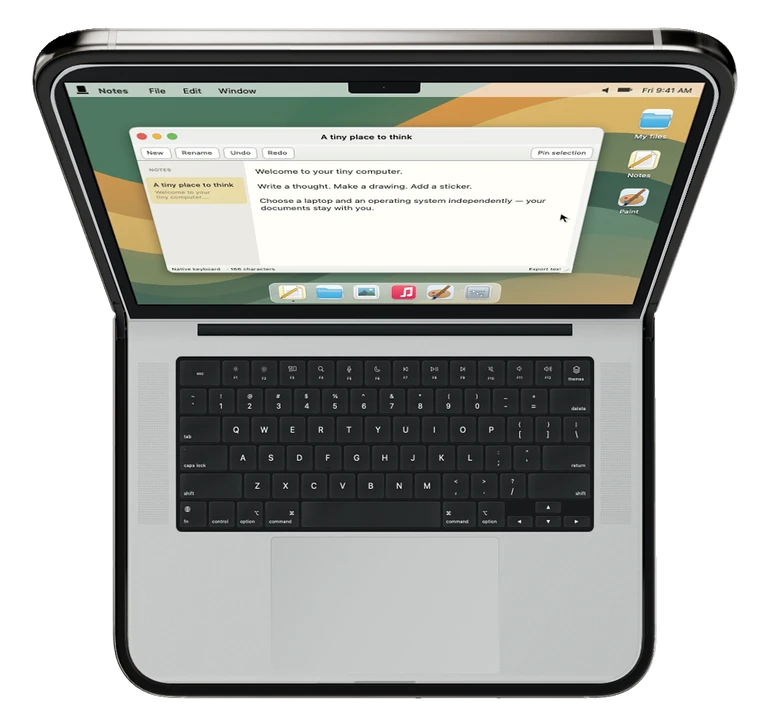
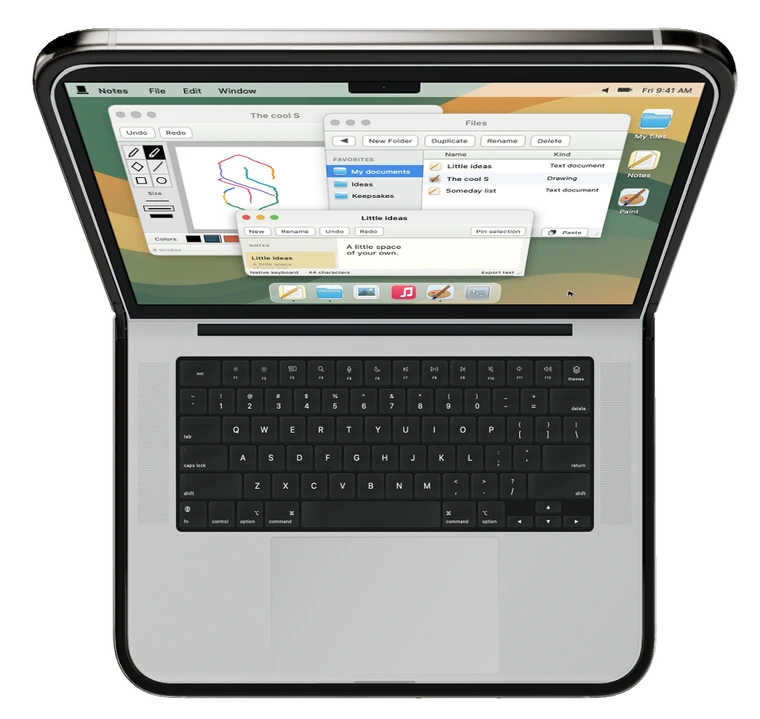
Refresh screenshots with Finder, Paint and Notes
Use the approved overlapping window layout across all seven OS desktops, eleven collection fronts, ten hero renderings, and the social preview. Preserve the existing hardware, poses, page copy, and interactions. Include the smaller multicoloured S, visible desktop icons, and Notes positioned above the Dock. Refresh image versions for browser caches. Validated all 29 image files, preserved dimensions, and checked the local website.

Changed region(s): [[0.1211, 0.1224, 0.8474, 0.3978]]

diff --git a/index.html b/index.html
@@ -2,43 +2,43 @@
 <html lang="en"><head><meta charset="utf-8"><meta name="viewport" content="width=device-width,initial-scale=1">
 <meta name="description" content="Turn your iPhone Duo into your own little laptop. Explore the collection, flip over their lids, and make room for notes, doodles, music and a little personality.">
 <meta name="theme-color" content="#dfff3f"><meta http-equiv="Content-Security-Policy" content="default-src 'none'; style-src 'self' 'unsafe-inline'; script-src 'self'; img-src 'self'; media-src 'self'; base-uri 'none'; form-action 'none'">
-<meta property="og:type" content="website"><meta property="og:title" content="lil laptop — old soul. new screen."><meta property="og:description" content="Laptop looks. Your own little world on iPhone Duo."><meta property="og:url" content="https://sentry93.github.io/lil-laptop/"><meta property="og:image" content="https://sentry93.github.io/lil-laptop/social.jpg"><meta name="twitter:card" content="summary_large_image">
-<link rel="canonical" href="https://sentry93.github.io/lil-laptop/"><link rel="icon" href="icon-32.png" sizes="32x32"><link rel="apple-touch-icon" href="icon-180.png"><link rel="stylesheet" href="style.css?v=20261019-dot-mobile"><link rel="preload" href="hero-snow-open.webp?v=20261019-brighter" as="image" fetchpriority="high"><script src="site.js?v=20261019-dot-mobile" defer></script><title>lil laptop — oh hello. again.</title><noscript><style>.hero-art[data-loading=true]{visibility:visible}</style></noscript></head>
+<meta property="og:type" content="website"><meta property="og:title" content="lil laptop — old soul. new screen."><meta property="og:description" content="Laptop looks. Your own little world on iPhone Duo."><meta property="og:url" content="https://sentry93.github.io/lil-laptop/"><meta property="og:image" content="https://sentry93.github.io/lil-laptop/social.jpg?v=20261019-three-windows"><meta name="twitter:card" content="summary_large_image">
+<link rel="canonical" href="https://sentry93.github.io/lil-laptop/"><link rel="icon" href="icon-32.png" sizes="32x32"><link rel="apple-touch-icon" href="icon-180.png"><link rel="stylesheet" href="style.css?v=20261019-dot-mobile"><link rel="preload" href="hero-snow-open.webp?v=20261019-three-windows" as="image" fetchpriority="high"><script src="site.js?v=20261019-three-windows" defer></script><title>lil laptop — oh hello. again.</title><noscript><style>.hero-art[data-loading=true]{visibility:visible}</style></noscript></head>
 <body><a class="skip" href="#main">Skip to content</a>
 <header class="site-header"><div class="wrap nav-inner"><a class="brand" href="./" aria-label="lil laptop home"><span class="nav-icon" aria-hidden="true"><span class="app-icon-shell"><img src="lil-laptop-app-icon-1024.png" width="28" height="28" alt="" draggable="false"></span></span><span class="wordmark">lil laptop</span></a><nav aria-label="Main"><a href="#collection">the laptops</a><a href="#customize">make it yours</a><div class="nav-download"><a class="app-store-badge" href="https://apps.apple.com/us/app/lil-laptop/id6824160964" aria-label="Download lil laptop on the App Store"><svg aria-hidden="true" focusable="false" xmlns="http://www.w3.org/2000/svg" width="119.66407" height="40" viewBox="0 0 119.66407 40"><g><g><g><path d="M110.13477,0H9.53468c-.3667,0-.729,0-1.09473.002-.30615.002-.60986.00781-.91895.0127A13.21476,13.21476,0,0,0,5.5171.19141a6.66509,6.66509,0,0,0-1.90088.627A6.43779,6.43779,0,0,0,1.99757,1.99707,6.25844,6.25844,0,0,0,.81935,3.61816a6.60119,6.60119,0,0,0-.625,1.90332,12.993,12.993,0,0,0-.1792,2.002C.00587,7.83008.00489,8.1377,0,8.44434V31.5586c.00489.3105.00587.6113.01515.9219a12.99232,12.99232,0,0,0,.1792,2.0019,6.58756,6.58756,0,0,0,.625,1.9043A6.20778,6.20778,0,0,0,1.99757,38.001a6.27445,6.27445,0,0,0,1.61865,1.1787,6.70082,6.70082,0,0,0,1.90088.6308,13.45514,13.45514,0,0,0,2.0039.1768c.30909.0068.6128.0107.91895.0107C8.80567,40,9.168,40,9.53468,40H110.13477c.3594,0,.7246,0,1.084-.002.3047,0,.6172-.0039.9219-.0107a13.279,13.279,0,0,0,2-.1768,6.80432,6.80432,0,0,0,1.9082-.6308,6.27742,6.27742,0,0,0,1.6172-1.1787,6.39482,6.39482,0,0,0,1.1816-1.6143,6.60413,6.60413,0,0,0,.6191-1.9043,13.50643,13.50643,0,0,0,.1856-2.0019c.0039-.3106.0039-.6114.0039-.9219.0078-.3633.0078-.7246.0078-1.0938V9.53613c0-.36621,0-.72949-.0078-1.09179,0-.30664,0-.61426-.0039-.9209a13.5071,13.5071,0,0,0-.1856-2.002,6.6177,6.6177,0,0,0-.6191-1.90332,6.46619,6.46619,0,0,0-2.7988-2.7998,6.76754,6.76754,0,0,0-1.9082-.627,13.04394,13.04394,0,0,0-2-.17676c-.3047-.00488-.6172-.01074-.9219-.01269-.3594-.002-.7246-.002-1.084-.002Z" style="fill: #a6a6a6"/><path d="M8.44483,39.125c-.30468,0-.602-.0039-.90429-.0107a12.68714,12.68714,0,0,1-1.86914-.1631,5.88381,5.88381,0,0,1-1.65674-.5479,5.40573,5.40573,0,0,1-1.397-1.0166,5.32082,5.32082,0,0,1-1.02051-1.3965,5.72186,5.72186,0,0,1-.543-1.6572,12.41351,12.41351,0,0,1-.1665-1.875c-.00634-.2109-.01464-.9131-.01464-.9131V8.44434S.88185,7.75293.8877,7.5498a12.37039,12.37039,0,0,1,.16553-1.87207,5.7555,5.7555,0,0,1,.54346-1.6621A5.37349,5.37349,0,0,1,2.61183,2.61768,5.56543,5.56543,0,0,1,4.01417,1.59521a5.82309,5.82309,0,0,1,1.65332-.54394A12.58589,12.58589,0,0,1,7.543.88721L8.44532.875H111.21387l.9131.0127a12.38493,12.38493,0,0,1,1.8584.16259,5.93833,5.93833,0,0,1,1.6709.54785,5.59374,5.59374,0,0,1,2.415,2.41993,5.76267,5.76267,0,0,1,.5352,1.64892,12.995,12.995,0,0,1,.1738,1.88721c.0029.2832.0029.5874.0029.89014.0079.375.0079.73193.0079,1.09179V30.4648c0,.3633,0,.7178-.0079,1.0752,0,.3252,0,.6231-.0039.9297a12.73126,12.73126,0,0,1-.1709,1.8535,5.739,5.739,0,0,1-.54,1.67,5.48029,5.48029,0,0,1-1.0156,1.3857,5.4129,5.4129,0,0,1-1.3994,1.0225,5.86168,5.86168,0,0,1-1.668.5498,12.54218,12.54218,0,0,1-1.8692.1631c-.2929.0068-.5996.0107-.8974.0107l-1.084.002Z"/></g><g data-name="&lt;Group&gt;"><g data-name="&lt;Group&gt;"><g data-name="&lt;Group&gt;"><path data-name="&lt;Path&gt;" d="M24.76888,20.30068a4.94881,4.94881,0,0,1,2.35656-4.15206,5.06566,5.06566,0,0,0-3.99116-2.15768c-1.67924-.17626-3.30719,1.00483-4.1629,1.00483-.87227,0-2.18977-.98733-3.6085-.95814a5.31529,5.31529,0,0,0-4.47292,2.72787c-1.934,3.34842-.49141,8.26947,1.3612,10.97608.9269,1.32535,2.01018,2.8058,3.42763,2.7533,1.38706-.05753,1.9051-.88448,3.5794-.88448,1.65876,0,2.14479.88448,3.591.8511,1.48838-.02416,2.42613-1.33124,3.32051-2.66914a10.962,10.962,0,0,0,1.51842-3.09251A4.78205,4.78205,0,0,1,24.76888,20.30068Z" style="fill: #fff"/><path data-name="&lt;Path&gt;" d="M22.03725,12.21089a4.87248,4.87248,0,0,0,1.11452-3.49062,4.95746,4.95746,0,0,0-3.20758,1.65961,4.63634,4.63634,0,0,0-1.14371,3.36139A4.09905,4.09905,0,0,0,22.03725,12.21089Z" style="fill: #fff"/></g></g><g><path d="M42.30227,27.13965h-4.7334l-1.13672,3.35645H34.42727l4.4834-12.418h2.083l4.4834,12.418H43.438ZM38.0591,25.59082h3.752l-1.84961-5.44727h-.05176Z" style="fill: #fff"/><path d="M55.15969,25.96973c0,2.81348-1.50586,4.62109-3.77832,4.62109a3.0693,3.0693,0,0,1-2.84863-1.584h-.043v4.48438h-1.8584V21.44238H48.4302v1.50586h.03418a3.21162,3.21162,0,0,1,2.88281-1.60059C53.645,21.34766,55.15969,23.16406,55.15969,25.96973Zm-1.91016,0c0-1.833-.94727-3.03809-2.39258-3.03809-1.41992,0-2.375,1.23047-2.375,3.03809,0,1.82422.95508,3.0459,2.375,3.0459C52.30227,29.01563,53.24953,27.81934,53.24953,25.96973Z" style="fill: #fff"/><path d="M65.12453,25.96973c0,2.81348-1.50586,4.62109-3.77832,4.62109a3.0693,3.0693,0,0,1-2.84863-1.584h-.043v4.48438h-1.8584V21.44238H58.395v1.50586h.03418A3.21162,3.21162,0,0,1,61.312,21.34766C63.60988,21.34766,65.12453,23.16406,65.12453,25.96973Zm-1.91016,0c0-1.833-.94727-3.03809-2.39258-3.03809-1.41992,0-2.375,1.23047-2.375,3.03809,0,1.82422.95508,3.0459,2.375,3.0459C62.26711,29.01563,63.21438,27.81934,63.21438,25.96973Z" style="fill: #fff"/><path d="M71.71047,27.03613c.1377,1.23145,1.334,2.04,2.96875,2.04,1.56641,0,2.69336-.80859,2.69336-1.91895,0-.96387-.67969-1.541-2.28906-1.93652l-1.60937-.3877c-2.28027-.55078-3.33887-1.61719-3.33887-3.34766,0-2.14258,1.86719-3.61426,4.51855-3.61426,2.624,0,4.42285,1.47168,4.4834,3.61426h-1.876c-.1123-1.23926-1.13672-1.9873-2.63379-1.9873s-2.52148.75684-2.52148,1.8584c0,.87793.6543,1.39453,2.25488,1.79l1.36816.33594c2.54785.60254,3.60645,1.626,3.60645,3.44238,0,2.32324-1.85059,3.77832-4.79395,3.77832-2.75391,0-4.61328-1.4209-4.7334-3.667Z" style="fill: #fff"/><path d="M83.34621,19.2998v2.14258h1.72168v1.47168H83.34621v4.99121c0,.77539.34473,1.13672,1.10156,1.13672a5.80752,5.80752,0,0,0,.61133-.043v1.46289a5.10351,5.10351,0,0,1-1.03223.08594c-1.833,0-2.54785-.68848-2.54785-2.44434V22.91406H80.16262V21.44238H81.479V19.2998Z" style="fill: #fff"/><path d="M86.065,25.96973c0-2.84863,1.67773-4.63867,4.29395-4.63867,2.625,0,4.29492,1.79,4.29492,4.63867,0,2.85645-1.66113,4.63867-4.29492,4.63867C87.72609,30.6084,86.065,28.82617,86.065,25.96973Zm6.69531,0c0-1.9541-.89551-3.10742-2.40137-3.10742s-2.40039,1.16211-2.40039,3.10742c0,1.96191.89453,3.10645,2.40039,3.10645S92.76027,27.93164,92.76027,25.96973Z" style="fill: #fff"/><path d="M96.18606,21.44238h1.77246v1.541h.043a2.1594,2.1594,0,0,1,2.17773-1.63574,2.86616,2.86616,0,0,1,.63672.06934v1.73828a2.59794,2.59794,0,0,0-.835-.1123,1.87264,1.87264,0,0,0-1.93652,2.083v5.37012h-1.8584Z" style="fill: #fff"/><path d="M109.3843,27.83691c-.25,1.64355-1.85059,2.77148-3.89844,2.77148-2.63379,0-4.26855-1.76465-4.26855-4.5957,0-2.83984,1.64355-4.68164,4.19043-4.68164,2.50488,0,4.08008,1.7207,4.08008,4.46582v.63672h-6.39453v.1123a2.358,2.358,0,0,0,2.43555,2.56445,2.04834,2.04834,0,0,0,2.09082-1.27344Zm-6.28223-2.70215h4.52637a2.1773,2.1773,0,0,0-2.2207-2.29785A2.292,2.292,0,0,0,103.10207,25.13477Z" style="fill: #fff"/></g></g></g><g data-name="&lt;Group&gt;"><g><path d="M37.82619,8.731a2.63964,2.63964,0,0,1,2.80762,2.96484c0,1.90625-1.03027,3.002-2.80762,3.002H35.67092V8.731Zm-1.22852,5.123h1.125a1.87588,1.87588,0,0,0,1.96777-2.146,1.881,1.881,0,0,0-1.96777-2.13379h-1.125Z" style="fill: #fff"/><path d="M41.68068,12.44434a2.13323,2.13323,0,1,1,4.24707,0,2.13358,2.13358,0,1,1-4.24707,0Zm3.333,0c0-.97607-.43848-1.54687-1.208-1.54687-.77246,0-1.207.5708-1.207,1.54688,0,.98389.43457,1.55029,1.207,1.55029C44.57522,13.99463,45.01369,13.42432,45.01369,12.44434Z" style="fill: #fff"/><path d="M51.57326,14.69775h-.92187l-.93066-3.31641h-.07031l-.92676,3.31641h-.91309l-1.24121-4.50293h.90137l.80664,3.436h.06641l.92578-3.436h.85254l.92578,3.436h.07031l.80273-3.436h.88867Z" style="fill: #fff"/><path d="M53.85354,10.19482H54.709v.71533h.06641a1.348,1.348,0,0,1,1.34375-.80225,1.46456,1.46456,0,0,1,1.55859,1.6748v2.915h-.88867V12.00586c0-.72363-.31445-1.0835-.97168-1.0835a1.03294,1.03294,0,0,0-1.0752,1.14111v2.63428h-.88867Z" style="fill: #fff"/><path d="M59.09377,8.437h.88867v6.26074h-.88867Z" style="fill: #fff"/><path d="M61.21779,12.44434a2.13346,2.13346,0,1,1,4.24756,0,2.1338,2.1338,0,1,1-4.24756,0Zm3.333,0c0-.97607-.43848-1.54687-1.208-1.54687-.77246,0-1.207.5708-1.207,1.54688,0,.98389.43457,1.55029,1.207,1.55029C64.11232,13.99463,64.5508,13.42432,64.5508,12.44434Z" style="fill: #fff"/><path d="M66.4009,13.42432c0-.81055.60352-1.27783,1.6748-1.34424l1.21973-.07031v-.38867c0-.47559-.31445-.74414-.92187-.74414-.49609,0-.83984.18213-.93848.50049h-.86035c.09082-.77344.81836-1.26953,1.83984-1.26953,1.12891,0,1.76563.562,1.76563,1.51318v3.07666h-.85547v-.63281h-.07031a1.515,1.515,0,0,1-1.35254.707A1.36026,1.36026,0,0,1,66.4009,13.42432Zm2.89453-.38477v-.37646l-1.09961.07031c-.62012.0415-.90137.25244-.90137.64941,0,.40527.35156.64111.835.64111A1.0615,1.0615,0,0,0,69.29543,13.03955Z" style="fill: #fff"/><path d="M71.34816,12.44434c0-1.42285.73145-2.32422,1.86914-2.32422a1.484,1.484,0,0,1,1.38086.79h.06641V8.437h.88867v6.26074h-.85156v-.71143h-.07031a1.56284,1.56284,0,0,1-1.41406.78564C72.0718,14.772,71.34816,13.87061,71.34816,12.44434Zm.918,0c0,.95508.4502,1.52979,1.20313,1.52979.749,0,1.21191-.583,1.21191-1.52588,0-.93848-.46777-1.52979-1.21191-1.52979C72.72121,10.91846,72.26613,11.49707,72.26613,12.44434Z" style="fill: #fff"/><path d="M79.23,12.44434a2.13323,2.13323,0,1,1,4.24707,0,2.13358,2.13358,0,1,1-4.24707,0Zm3.333,0c0-.97607-.43848-1.54687-1.208-1.54687-.77246,0-1.207.5708-1.207,1.54688,0,.98389.43457,1.55029,1.207,1.55029C82.12453,13.99463,82.563,13.42432,82.563,12.44434Z" style="fill: #fff"/><path d="M84.66945,10.19482h.85547v.71533h.06641a1.348,1.348,0,0,1,1.34375-.80225,1.46456,1.46456,0,0,1,1.55859,1.6748v2.915H87.605V12.00586c0-.72363-.31445-1.0835-.97168-1.0835a1.03294,1.03294,0,0,0-1.0752,1.14111v2.63428h-.88867Z" style="fill: #fff"/><path d="M93.51516,9.07373v1.1416h.97559v.74854h-.97559V13.2793c0,.47168.19434.67822.63672.67822a2.96657,2.96657,0,0,0,.33887-.02051v.74023a2.9155,2.9155,0,0,1-.4834.04541c-.98828,0-1.38184-.34766-1.38184-1.21582v-2.543h-.71484v-.74854h.71484V9.07373Z" style="fill: #fff"/><path d="M95.70461,8.437h.88086v2.48145h.07031a1.3856,1.3856,0,0,1,1.373-.80664,1.48339,1.48339,0,0,1,1.55078,1.67871v2.90723H98.69v-2.688c0-.71924-.335-1.0835-.96289-1.0835a1.05194,1.05194,0,0,0-1.13379,1.1416v2.62988h-.88867Z" style="fill: #fff"/><path d="M104.76125,13.48193a1.828,1.828,0,0,1-1.95117,1.30273A2.04531,2.04531,0,0,1,100.73,12.46045a2.07685,2.07685,0,0,1,2.07617-2.35254c1.25293,0,2.00879.856,2.00879,2.27V12.688h-3.17969v.0498a1.1902,1.1902,0,0,0,1.19922,1.29,1.07934,1.07934,0,0,0,1.07129-.5459Zm-3.126-1.45117h2.27441a1.08647,1.08647,0,0,0-1.1084-1.1665A1.15162,1.15162,0,0,0,101.63527,12.03076Z" style="fill: #fff"/></g></g></g></svg></a></div></nav></div></header>
 <main id="main">
 <section class="hero"><div class="wrap hero-grid"><div class="hero-copy"><div class="hero-brand-pair"><span class="hero-app-icon app-icon-shell"><img src="lil-laptop-app-icon-1024.png" width="84" height="84" alt="lil laptop app icon" draggable="false"></span><a class="hero-qr" href="https://apps.apple.com/us/app/lil-laptop/id6824160964" aria-label="Get lil laptop on the App Store: open the link or scan this QR code"><img src="app-store-qr.svg?v=20261019-dot" width="84" height="84" alt="QR code for lil laptop on the App Store" draggable="false"></a></div><h1>oh hello.<br><em>again.</em></h1><p class="hero-intro">Your phone, with a whole new alter ego. Turn your Duo into a tiny computer for little thoughts, creative detours, and a desktop that feels like you.</p><div class="hero-actions"><a class="button button-dark" href="#watch">watch the lil film <span aria-hidden="true">▶</span></a><a class="text-link" href="#customize">make it yours <span aria-hidden="true">↓</span></a></div><p class="hero-note">No account. No ads. Just your own little world.</p></div>
-<div class="hero-art" data-loading="true"><div class="hero-orbit" aria-hidden="true"></div><div class="hero-orbit second" aria-hidden="true"></div><div class="hero-glow" aria-hidden="true"></div><div class="hero-float"><div class="tilt"><button class="render-surface hero-device-button" type="button" id="hero-device-button" aria-label="Spin to see the back of Glossy Snow" aria-pressed="false" aria-describedby="hero-interaction-hint" data-side="open"><img class="hero-device" src="hero-snow-open.webp?v=20261019-brighter" fetchpriority="high" decoding="async" width="1100" height="1089" alt="Glossy Snow on black iPhone Duo in the angled open pose."><svg class="hero-deck-stickers" viewBox="0 0 1100 1089" aria-hidden="true"><image data-deck-sticker="0" href="sticker-circuit-club-06.webp" width="100" height="100" transform="matrix(0.81865,0.11538,-0.29242,0.51462,251.6885,767.5)"/><image data-deck-sticker="1" href="sticker-circuit-club-03.webp" width="100" height="100" transform="matrix(0.5282,0.26247,-0.40038,0.32608,672.609,858.5725)"/><image data-deck-sticker="2" href="sticker-bow.webp" width="100" height="100" transform="matrix(0.51514,0.13161,-0.18903,0.31266,735.29,823.997)" style="display:none"/></svg></button></div></div><div class="hero-sticker-cloud" aria-hidden="true"><span class="cloud-sticker cloud-sticker-0" data-cloud-sticker="0"><img src="sticker-bow.webp" alt="" width="120" height="120"></span><span class="cloud-sticker cloud-sticker-1" data-cloud-sticker="1"><img src="sticker-circuit-club-03.webp" alt="" width="120" height="120"></span><span class="cloud-sticker cloud-sticker-2" data-cloud-sticker="2"><img src="sticker-circuit-club-07.webp" alt="" width="120" height="120"></span><span class="cloud-sticker cloud-sticker-3" data-cloud-sticker="3"><img src="sticker-circuit-club-08.webp" alt="" width="120" height="120"></span><span class="cloud-sticker cloud-sticker-4" data-cloud-sticker="4"><img src="sticker-flower.webp" alt="" width="120" height="120"></span><span class="cloud-sticker cloud-sticker-5" data-cloud-sticker="5"><img src="sticker-circuit-club-02.webp" alt="" width="120" height="120"></span></div><div class="hero-render-caption"><span id="hero-model-name">Glossy Snow / White</span></div><p class="hero-art-note" id="hero-interaction-hint">front open</p></div></div><div class="hero-foot wrap"><div class="hero-foot-caption"><span>MADE FOR IPHONE DUO</span><div class="duo-finishes" role="group" aria-label="iPhone Duo device finish"><button type="button" data-duo-finish="black" aria-pressed="true" aria-label="Black iPhone Duo" title="Black"><span class="finish-dot finish-black"></span></button><button type="button" data-duo-finish="silver" aria-pressed="false" aria-label="Silver iPhone Duo" title="Silver"><span class="finish-dot finish-silver"></span></button></div></div><span class="hero-foot-star" aria-hidden="true">✳</span></div></section>
+<div class="hero-art" data-loading="true"><div class="hero-orbit" aria-hidden="true"></div><div class="hero-orbit second" aria-hidden="true"></div><div class="hero-glow" aria-hidden="true"></div><div class="hero-float"><div class="tilt"><button class="render-surface hero-device-button" type="button" id="hero-device-button" aria-label="Spin to see the back of Glossy Snow" aria-pressed="false" aria-describedby="hero-interaction-hint" data-side="open"><img class="hero-device" src="hero-snow-open.webp?v=20261019-three-windows" fetchpriority="high" decoding="async" width="1100" height="1089" alt="Glossy Snow on black iPhone Duo in the angled open pose."><svg class="hero-deck-stickers" viewBox="0 0 1100 1089" aria-hidden="true"><image data-deck-sticker="0" href="sticker-circuit-club-06.webp" width="100" height="100" transform="matrix(0.81865,0.11538,-0.29242,0.51462,251.6885,767.5)"/><image data-deck-sticker="1" href="sticker-circuit-club-03.webp" width="100" height="100" transform="matrix(0.5282,0.26247,-0.40038,0.32608,672.609,858.5725)"/><image data-deck-sticker="2" href="sticker-bow.webp" width="100" height="100" transform="matrix(0.51514,0.13161,-0.18903,0.31266,735.29,823.997)" style="display:none"/></svg></button></div></div><div class="hero-sticker-cloud" aria-hidden="true"><span class="cloud-sticker cloud-sticker-0" data-cloud-sticker="0"><img src="sticker-bow.webp" alt="" width="120" height="120"></span><span class="cloud-sticker cloud-sticker-1" data-cloud-sticker="1"><img src="sticker-circuit-club-03.webp" alt="" width="120" height="120"></span><span class="cloud-sticker cloud-sticker-2" data-cloud-sticker="2"><img src="sticker-circuit-club-07.webp" alt="" width="120" height="120"></span><span class="cloud-sticker cloud-sticker-3" data-cloud-sticker="3"><img src="sticker-circuit-club-08.webp" alt="" width="120" height="120"></span><span class="cloud-sticker cloud-sticker-4" data-cloud-sticker="4"><img src="sticker-flower.webp" alt="" width="120" height="120"></span><span class="cloud-sticker cloud-sticker-5" data-cloud-sticker="5"><img src="sticker-circuit-club-02.webp" alt="" width="120" height="120"></span></div><div class="hero-render-caption"><span id="hero-model-name">Glossy Snow / White</span></div><p class="hero-art-note" id="hero-interaction-hint">front open</p></div></div><div class="hero-foot wrap"><div class="hero-foot-caption"><span>MADE FOR IPHONE DUO</span><div class="duo-finishes" role="group" aria-label="iPhone Duo device finish"><button type="button" data-duo-finish="black" aria-pressed="true" aria-label="Black iPhone Duo" title="Black"><span class="finish-dot finish-black"></span></button><button type="button" data-duo-finish="silver" aria-pressed="false" aria-label="Silver iPhone Duo" title="Silver"><span class="finish-dot finish-silver"></span></button></div></div><span class="hero-foot-star" aria-hidden="true">✳</span></div></section>
 
-<section class="desktop-section section-space" id="desktops"><div class="wrap desktop-grid"><div class="desktop-copy"><p class="eyebrow">SAME LITTLE WORLD. DIFFERENT ENERGY.</p><h2>New screen,<br><em>old soul.</em></h2><p>The outside doesn't have to match the inside. Mix retro desktops with any laptop, from monochrome charm to candy-coloured nostalgia.</p><p>Your notes, doodles and chosen music come with you.</p><div class="desktop-choices js-only" role="group" aria-label="Desktop interface"><button type="button" data-os="system7" aria-pressed="false">Monochrome</button><button type="button" data-os="macos86" aria-pressed="false">Platinum</button><button type="button" data-os="aqua101" aria-pressed="true">Aqua</button><button type="button" data-os="tiger104" aria-pressed="false">Brushed</button><button type="button" data-os="snow106" aria-pressed="false">Snow</button><button type="button" data-os="yosemite1010" aria-pressed="false">Flat</button><button type="button" data-os="sonoma14" aria-pressed="false">Modern</button></div></div><div class="desktop-showcase reveal"><div class="desktop-shell"><div class="desktop-window-bar"><span>● ● ●</span><span id="desktop-label">Aqua</span><span aria-hidden="true">↗</span></div><img id="desktop-image" src="desktop-aqua101.webp" width="760" height="507" loading="lazy" alt="Aqua desktop interface preview from lil laptop."></div><span class="desktop-spark" aria-hidden="true">✦</span><p>same little world. different energy.</p></div></div></section>
+<section class="desktop-section section-space" id="desktops"><div class="wrap desktop-grid"><div class="desktop-copy"><p class="eyebrow">SAME LITTLE WORLD. DIFFERENT ENERGY.</p><h2>New screen,<br><em>old soul.</em></h2><p>The outside doesn't have to match the inside. Mix retro desktops with any laptop, from monochrome charm to candy-coloured nostalgia.</p><p>Your notes, doodles and chosen music come with you.</p><div class="desktop-choices js-only" role="group" aria-label="Desktop interface"><button type="button" data-os="system7" aria-pressed="false">Monochrome</button><button type="button" data-os="macos86" aria-pressed="false">Platinum</button><button type="button" data-os="aqua101" aria-pressed="true">Aqua</button><button type="button" data-os="tiger104" aria-pressed="false">Brushed</button><button type="button" data-os="snow106" aria-pressed="false">Snow</button><button type="button" data-os="yosemite1010" aria-pressed="false">Flat</button><button type="button" data-os="sonoma14" aria-pressed="false">Modern</button></div></div><div class="desktop-showcase reveal"><div class="desktop-shell"><div class="desktop-window-bar"><span>● ● ●</span><span id="desktop-label">Aqua</span><span aria-hidden="true">↗</span></div><img id="desktop-image" src="desktop-aqua101.webp?v=20261019-three-windows" width="760" height="507" loading="lazy" alt="Aqua desktop with Finder, Paint and Notes windows open."></div><span class="desktop-spark" aria-hidden="true">✦</span><p>same little world. different energy.</p></div></div></section>
 <section class="collection section-space" id="collection"><div class="wrap"><div class="section-heading reveal"><div><p class="eyebrow">THE COLLECTION / A FEW VERY GOOD ERAS</p><h2>Which lil laptop<br><em>feels like you?</em></h2></div><p>A crush on the classics? A thing for jelly colours? There's a little laptop with your name on it.</p></div><div class="collection-controls"><p><span id="collection-caption">Pick your alter ego.</span></p><div class="side-toggle js-only" role="group" aria-label="Laptop preview side"><button type="button" data-side="front" aria-pressed="true">open</button><button type="button" data-side="back" aria-pressed="false">flip to lids</button></div></div><noscript><p>Enable JavaScript to turn the laptops around and decorate their lids.</p></noscript><div class="models-grid" tabindex="-1" role="group" aria-label="Six lil laptops. Choose open or flip to lids."><article class="model-card" data-model="powerbook170">
  
- <button type="button" class="model-stage model-preview" aria-label="Flip Power Notebook and the collection to lids"><span class="device-flipper"><span class="device-face device-front"><img class="jelly-0" src="model-powerbook170-front.webp?v=20261019-fan" width="760" height="719" loading="lazy" decoding="async" alt="Power Notebook in Graphite, open on iPhone Duo."></span><span class="device-face device-back" aria-hidden="true"><img class="jelly-0" src="hero-power-rear.webp?v=20261019-brighter" width="640" height="440" loading="lazy" decoding="async" alt="Power Notebook in Graphite, back lid on iPhone Duo."></span></span></button>
+ <button type="button" class="model-stage model-preview" aria-label="Flip Power Notebook and the collection to lids"><span class="device-flipper"><span class="device-face device-front"><img class="jelly-0" src="model-powerbook170-front.webp?v=20261019-three-windows" width="760" height="719" loading="lazy" decoding="async" alt="Power Notebook in Graphite, open on iPhone Duo."></span><span class="device-face device-back" aria-hidden="true"><img class="jelly-0" src="hero-power-rear.webp?v=20261019-brighter" width="640" height="440" loading="lazy" decoding="async" alt="Power Notebook in Graphite, back lid on iPhone Duo."></span></span></button>
  <h3>Power Notebook</h3><p>A trackball. Chunky keys. A very good beginning.</p>
  <div class="model-bottom"><span class="variant-name">Graphite</span></div>
  </article><article class="model-card" data-model="ibook1999">
  
- <button type="button" class="model-stage model-preview jelly-stage" aria-label="Flip Jelly Clamshell and the collection to lids"><span class="device-flipper"><span class="device-face device-front"><img class="jelly-0" src="model-ibook1999-front.webp?v=20261019-fan" width="760" height="719" loading="lazy" decoding="async" alt="Jelly Clamshell in Blueberry, open on iPhone Duo."><img class="jelly-1" src="model-ibook1999-tangerine-front.webp?v=20261019-fan" width="760" height="719" loading="lazy" decoding="async" alt="Jelly Clamshell in Tangerine, open on iPhone Duo."><img class="jelly-2" src="model-ibook1999-hotpink-front.webp?v=20261019-fan" width="760" height="719" loading="lazy" decoding="async" alt="Jelly Clamshell in Hot Pink, open on iPhone Duo."><img class="jelly-3" src="model-ibook1999-neongreen-front.webp?v=20261019-fan" width="760" height="719" loading="lazy" decoding="async" alt="Jelly Clamshell in Neon Green, open on iPhone Duo."></span><span class="device-face device-back" aria-hidden="true"><img class="jelly-0" src="hero-blue-rear.webp?v=20261019-brighter" width="640" height="440" loading="lazy" decoding="async" alt="Jelly Clamshell in Blueberry, back lid on iPhone Duo."><img class="jelly-1" src="hero-orange-rear.webp?v=20261019-brighter" width="640" height="440" loading="lazy" decoding="async" alt="Jelly Clamshell in Tangerine, back lid on iPhone Duo."><img class="jelly-2" src="hero-pink-rear.webp?v=20261019-brighter" width="640" height="440" loading="lazy" decoding="async" alt="Jelly Clamshell in Hot Pink, back lid on iPhone Duo."><img class="jelly-3" src="hero-green-rear.webp?v=20261019-brighter" width="640" height="440" loading="lazy" decoding="async" alt="Jelly Clamshell in Neon Green, back lid on iPhone Duo."></span></span></button>
+ <button type="button" class="model-stage model-preview jelly-stage" aria-label="Flip Jelly Clamshell and the collection to lids"><span class="device-flipper"><span class="device-face device-front"><img class="jelly-0" src="model-ibook1999-front.webp?v=20261019-three-windows" width="760" height="719" loading="lazy" decoding="async" alt="Jelly Clamshell in Blueberry, open on iPhone Duo."><img class="jelly-1" src="model-ibook1999-tangerine-front.webp?v=20261019-three-windows" width="760" height="719" loading="lazy" decoding="async" alt="Jelly Clamshell in Tangerine, open on iPhone Duo."><img class="jelly-2" src="model-ibook1999-hotpink-front.webp?v=20261019-three-windows" width="760" height="719" loading="lazy" decoding="async" alt="Jelly Clamshell in Hot Pink, open on iPhone Duo."><img class="jelly-3" src="model-ibook1999-neongreen-front.webp?v=20261019-three-windows" width="760" height="719" loading="lazy" decoding="async" alt="Jelly Clamshell in Neon Green, open on iPhone Duo."></span><span class="device-face device-back" aria-hidden="true"><img class="jelly-0" src="hero-blue-rear.webp?v=20261019-brighter" width="640" height="440" loading="lazy" decoding="async" alt="Jelly Clamshell in Blueberry, back lid on iPhone Duo."><img class="jelly-1" src="hero-orange-rear.webp?v=20261019-brighter" width="640" height="440" loading="lazy" decoding="async" alt="Jelly Clamshell in Tangerine, back lid on iPhone Duo."><img class="jelly-2" src="hero-pink-rear.webp?v=20261019-brighter" width="640" height="440" loading="lazy" decoding="async" alt="Jelly Clamshell in Hot Pink, back lid on iPhone Duo."><img class="jelly-3" src="hero-green-rear.webp?v=20261019-brighter" width="640" height="440" loading="lazy" decoding="async" alt="Jelly Clamshell in Neon Green, back lid on iPhone Duo."></span></span></button>
  <h3>Jelly Clamshell</h3><p>A little colour goes a long way. Pick your flavour.</p>
  <div class="model-bottom"><span class="variant-name">A whole little colour club.</span></div>
  </article><article class="model-card" data-model="titanium2001">
  
- <button type="button" class="model-stage model-preview" aria-label="Flip Aluminium Feather and the collection to lids"><span class="device-flipper"><span class="device-face device-front"><img class="jelly-0" src="model-titanium2001-front.webp?v=20261019-fan" width="760" height="719" loading="lazy" decoding="async" alt="Aluminium Feather in Aluminium, open on iPhone Duo."></span><span class="device-face device-back" aria-hidden="true"><img class="jelly-0" src="hero-titanium-rear.webp?v=20261019-brighter" width="640" height="440" loading="lazy" decoding="async" alt="Aluminium Feather in Aluminium, back lid on iPhone Duo."></span></span></button>
+ <button type="button" class="model-stage model-preview" aria-label="Flip Aluminium Feather and the collection to lids"><span class="device-flipper"><span class="device-face device-front"><img class="jelly-0" src="model-titanium2001-front.webp?v=20261019-three-windows" width="760" height="719" loading="lazy" decoding="async" alt="Aluminium Feather in Aluminium, open on iPhone Duo."></span><span class="device-face device-back" aria-hidden="true"><img class="jelly-0" src="hero-titanium-rear.webp?v=20261019-brighter" width="640" height="440" loading="lazy" decoding="async" alt="Aluminium Feather in Aluminium, back lid on iPhone Duo."></span></span></button>
  <h3>Aluminium Feather</h3><p>Cool metal. Dark keys. Turn-of-the-century energy.</p>
  <div class="model-bottom"><span class="variant-name">Aluminium</span></div>
  </article><article class="model-card" data-model="macbook2006">
  
- <button type="button" class="model-stage model-preview" aria-label="Flip Glossy Snow and the collection to lids"><span class="device-flipper"><span class="device-face device-front"><img class="jelly-0" src="model-macbook2006-front.webp?v=20261019-fan" width="760" height="719" loading="lazy" decoding="async" alt="Glossy Snow in White, open on iPhone Duo."></span><span class="device-face device-back" aria-hidden="true"><img class="jelly-0" src="hero-snow-rear.webp?v=20261019-brighter" width="640" height="440" loading="lazy" decoding="async" alt="Glossy Snow in White, back lid on iPhone Duo."></span></span></button>
+ <button type="button" class="model-stage model-preview" aria-label="Flip Glossy Snow and the collection to lids"><span class="device-flipper"><span class="device-face device-front"><img class="jelly-0" src="model-macbook2006-front.webp?v=20261019-three-windows" width="760" height="719" loading="lazy" decoding="async" alt="Glossy Snow in White, open on iPhone Duo."></span><span class="device-face device-back" aria-hidden="true"><img class="jelly-0" src="hero-snow-rear.webp?v=20261019-brighter" width="640" height="440" loading="lazy" decoding="async" alt="Glossy Snow in White, back lid on iPhone Duo."></span></span></button>
  <h3>Glossy Snow</h3><p>The little white laptop you never quite forgot.</p>
  <div class="model-bottom"><span class="variant-name">White</span></div>
  </article><article class="model-card" data-model="unibody2008">
  
- <button type="button" class="model-stage model-preview" aria-label="Flip Alloy Pro and the collection to lids"><span class="device-flipper"><span class="device-face device-front"><img class="jelly-0" src="model-unibody2008-front.webp?v=20261019-fan" width="760" height="719" loading="lazy" decoding="async" alt="Alloy Pro in Silver, open on iPhone Duo."></span><span class="device-face device-back" aria-hidden="true"><img class="jelly-0" src="hero-alloy-rear.webp?v=20261019-brighter" width="640" height="440" loading="lazy" decoding="async" alt="Alloy Pro in Silver, back lid on iPhone Duo."></span></span></button>
+ <button type="button" class="model-stage model-preview" aria-label="Flip Alloy Pro and the collection to lids"><span class="device-flipper"><span class="device-face device-front"><img class="jelly-0" src="model-unibody2008-front.webp?v=20261019-three-windows" width="760" height="719" loading="lazy" decoding="async" alt="Alloy Pro in Silver, open on iPhone Duo."></span><span class="device-face device-back" aria-hidden="true"><img class="jelly-0" src="hero-alloy-rear.webp?v=20261019-brighter" width="640" height="440" loading="lazy" decoding="async" alt="Alloy Pro in Silver, back lid on iPhone Duo."></span></span></button>
  <h3>Alloy Pro</h3><p>Black glass, silver edges, and a place for your ideas.</p>
  <div class="model-bottom"><span class="variant-name">Silver</span></div>
  </article><article class="model-card" data-model="pro2021">
  
- <button type="button" class="model-stage model-preview" aria-label="Flip Studio Pro and the collection to lids"><span class="device-flipper"><span class="device-face device-front"><img class="jelly-0" src="model-pro2021-front.webp?v=20261019-fan" width="760" height="719" loading="lazy" decoding="async" alt="Studio Pro in Space Gray, open on iPhone Duo."></span><span class="device-face device-back" aria-hidden="true"><img class="jelly-0" src="hero-studio-rear.webp?v=20261019-brighter" width="640" height="440" loading="lazy" decoding="async" alt="Studio Pro in Space Gray, back lid on iPhone Duo."></span></span></button>
+ <button type="button" class="model-stage model-preview" aria-label="Flip Studio Pro and the collection to lids"><span class="device-flipper"><span class="device-face device-front"><img class="jelly-0" src="model-pro2021-front.webp?v=20261019-three-windows" width="760" height="719" loading="lazy" decoding="async" alt="Studio Pro in Space Gray, open on iPhone Duo."></span><span class="device-face device-back" aria-hidden="true"><img class="jelly-0" src="hero-studio-rear.webp?v=20261019-brighter" width="640" height="440" loading="lazy" decoding="async" alt="Studio Pro in Space Gray, back lid on iPhone Duo."></span></span></button>
  <h3>Studio Pro</h3><p>A familiar modern desktop. A very personal little world.</p>
  <div class="model-bottom"><span class="variant-name">Space Gray</span></div>
  </article></div><p class="collection-note">Pick a favourite. Flip it over. Meet the whole little family.</p></div></section>

diff --git a/site.js b/site.js
@@ -1,4 +1,4 @@
-const models = [{"id":"powerbook170","name":"Power Notebook","description":"A trackball. Chunky keys. A very good beginning.","variants":[{"id":"graphite","name":"Graphite","color":"#62635D","front":"model-powerbook170-front.webp?v=20261019-fan","back":"hero-power-rear.webp?v=20261019-brighter"}]},{"id":"ibook1999","name":"Jelly Clamshell","description":"A little colour goes a long way. Pick your flavour.","variants":[{"id":"blueberry","name":"Blueberry","color":"#00BDC3","front":"model-ibook1999-front.webp?v=20261019-fan","back":"hero-blue-rear.webp?v=20261019-brighter"},{"id":"tangerine","name":"Tangerine","color":"#FF7A08","front":"model-ibook1999-tangerine-front.webp?v=20261019-fan","back":"hero-orange-rear.webp?v=20261019-brighter"},{"id":"hotpink","name":"Hot Pink","color":"#FF159A","front":"model-ibook1999-hotpink-front.webp?v=20261019-fan","back":"hero-pink-rear.webp?v=20261019-brighter"},{"id":"neongreen","name":"Neon Green","color":"#A8FF00","front":"model-ibook1999-neongreen-front.webp?v=20261019-fan","back":"hero-green-rear.webp?v=20261019-brighter"}]},{"id":"titanium2001","name":"Aluminium Feather","description":"Cool metal. Dark keys. Turn-of-the-century energy.","variants":[{"id":"titanium","name":"Aluminium","color":"#B4B5B0","front":"model-titanium2001-front.webp?v=20261019-fan","back":"hero-titanium-rear.webp?v=20261019-brighter"}]},{"id":"macbook2006","name":"Glossy Snow","description":"The little white laptop you never quite forgot.","variants":[{"id":"white","name":"White","color":"#F6F4EC","front":"model-macbook2006-front.webp?v=20261019-fan","back":"hero-snow-rear.webp?v=20261019-brighter"}]},{"id":"unibody2008","name":"Alloy Pro","description":"Black glass, silver edges, and a place for your ideas.","variants":[{"id":"silver","name":"Silver","color":"#BBBEC0","front":"model-unibody2008-front.webp?v=20261019-fan","back":"hero-alloy-rear.webp?v=20261019-brighter"}]},{"id":"pro2021","name":"Studio Pro","description":"A familiar modern desktop. A very personal little world.","variants":[{"id":"spacegray","name":"Space Gray","color":"#7D8084","front":"model-pro2021-front.webp?v=20261019-fan","back":"hero-studio-rear.webp?v=20261019-brighter"},{"id":"silver","name":"Silver","color":"#BDC0C2","front":"model-pro2021-silver-front.webp?v=20261019-fan","back":"model-pro2021-silver-lid.webp"}]}];
+const models = [{"id":"powerbook170","name":"Power Notebook","description":"A trackball. Chunky keys. A very good beginning.","variants":[{"id":"graphite","name":"Graphite","color":"#62635D","front":"model-powerbook170-front.webp?v=20261019-three-windows","back":"hero-power-rear.webp?v=20261019-brighter"}]},{"id":"ibook1999","name":"Jelly Clamshell","description":"A little colour goes a long way. Pick your flavour.","variants":[{"id":"blueberry","name":"Blueberry","color":"#00BDC3","front":"model-ibook1999-front.webp?v=20261019-three-windows","back":"hero-blue-rear.webp?v=20261019-brighter"},{"id":"tangerine","name":"Tangerine","color":"#FF7A08","front":"model-ibook1999-tangerine-front.webp?v=20261019-three-windows","back":"hero-orange-rear.webp?v=20261019-brighter"},{"id":"hotpink","name":"Hot Pink","color":"#FF159A","front":"model-ibook1999-hotpink-front.webp?v=20261019-three-windows","back":"hero-pink-rear.webp?v=20261019-brighter"},{"id":"neongreen","name":"Neon Green","color":"#A8FF00","front":"model-ibook1999-neongreen-front.webp?v=20261019-three-windows","back":"hero-green-rear.webp?v=20261019-brighter"}]},{"id":"titanium2001","name":"Aluminium Feather","description":"Cool metal. Dark keys. Turn-of-the-century energy.","variants":[{"id":"titanium","name":"Aluminium","color":"#B4B5B0","front":"model-titanium2001-front.webp?v=20261019-three-windows","back":"hero-titanium-rear.webp?v=20261019-brighter"}]},{"id":"macbook2006","name":"Glossy Snow","description":"The little white laptop you never quite forgot.","variants":[{"id":"white","name":"White","color":"#F6F4EC","front":"model-macbook2006-front.webp?v=20261019-three-windows","back":"hero-snow-rear.webp?v=20261019-brighter"}]},{"id":"unibody2008","name":"Alloy Pro","description":"Black glass, silver edges, and a place for your ideas.","variants":[{"id":"silver","name":"Silver","color":"#BBBEC0","front":"model-unibody2008-front.webp?v=20261019-three-windows","back":"hero-alloy-rear.webp?v=20261019-brighter"}]},{"id":"pro2021","name":"Studio Pro","description":"A familiar modern desktop. A very personal little world.","variants":[{"id":"spacegray","name":"Space Gray","color":"#7D8084","front":"model-pro2021-front.webp?v=20261019-three-windows","back":"hero-studio-rear.webp?v=20261019-brighter"},{"id":"silver","name":"Silver","color":"#BDC0C2","front":"model-pro2021-silver-front.webp?v=20261019-three-windows","back":"model-pro2021-silver-lid.webp"}]}];
 (() => {
   'use strict';
   const reduced = window.matchMedia('(prefers-reduced-motion: reduce)');
@@ -33,7 +33,7 @@ const models = [{"id":"powerbook170","name":"Power Notebook","description":"A tr
     if(button.getAttribute('aria-pressed')==='true')return;
     const name=desktopNames[button.dataset.os];
     document.querySelectorAll('[data-os]').forEach(b=>b.setAttribute('aria-pressed',String(b===button)));
-    desktopImage.src=`desktop-${button.dataset.os}.webp`;desktopImage.alt=`${name} desktop interface preview from lil laptop.`;
+    desktopImage.src=`desktop-${button.dataset.os}.webp?v=20261019-three-windows`;desktopImage.alt=`${name} desktop with Finder, Paint and Notes windows open.`;
     document.querySelector('#desktop-label').textContent=name;
     if(!reduced.matches)desktopImage.animate([{opacity:.35},{opacity:1}],{duration:240,easing:'ease-out'});
   }
@@ -263,7 +263,7 @@ const models = [{"id":"powerbook170","name":"Power Notebook","description":"A tr
     {id:'power',name:'Power Notebook / Graphite'},
     {id:'orange',name:'Jelly Clamshell / Tangerine'},
     {id:'studio',name:'Studio Pro / Space Gray'}
-  ].map(look=>({...look,open:`hero-${look.id}-open.webp?v=20261019-brighter`,rear:`hero-${look.id}-rear.webp?v=20261019-brighter`}));
+  ].map(look=>({...look,open:`hero-${look.id}-open.webp?v=20261019-three-windows`,rear:`hero-${look.id}-rear.webp?v=20261019-brighter`}));
   const decorationChoices = ['bow','flower','circuit-club-02','circuit-club-03','circuit-club-06','circuit-club-07','circuit-club-08','wayfarer-01'];
   const deckLayouts = [[[0.81287,0.09586,-0.25604,0.50867,250.1585,768.7735]],[[0.55852,0.25561,-0.39233,0.34202,670.6905,858.1185]],[[0.70159,0.03635,-0.13683,0.42908,249.762,768.7285],[0.41294,0.18818,-0.35792,0.27111,280.249,790.0355]],[[0.46318,0.19566,-0.30162,0.28211,678.922,860.1115],[0.34567,0.0195,-0.02358,0.23038,647.8955,884.506]],[[0.81865,0.11538,-0.29242,0.51462,251.6885,767.5],[0.5282,0.26247,-0.40038,0.32608,672.609,858.5725]],[[0.57199,0.23563,-0.46255,0.36706,274.528,771.8655],[0.5997,0.04582,-0.05934,0.38532,652.982,865.443]]];
   const deckSlots=[...document.querySelectorAll('[data-deck-sticker]')];
@@ -318,7 +318,7 @@ const models = [{"id":"powerbook170","name":"Power Notebook","description":"A tr
       {scale:'1',translate:'0 0'}
     ],{duration:105,easing:'cubic-bezier(.2,.8,.3,1)'});
   }
-  function heroSource(look,rear){return duoFinish==='silver'?`hero-${look.id}-silver-${rear?'rear':'open'}.webp?v=20261019-campaign`:(rear?look.rear:look.open);}
+  function heroSource(look,rear){return duoFinish==='silver'?`hero-${look.id}-silver-${rear?'rear':'open'}.webp?v=20261019-three-windows`:(rear?look.rear:look.open);}
   const frontLoads=new Map();
   let alternateLoadsQueued=false;
   function primeFrontLooks(){
@@ -334,7 +334,7 @@ const models = [{"id":"powerbook170","name":"Power Notebook","description":"A tr
     setTimeout(()=>{
       looks.forEach(look=>{
         const rear=new Image();rear.fetchPriority='low';rear.src=heroSource(look,true);
-        ['open','rear'].forEach(side=>{const image=new Image();image.fetchPriority='low';image.src=`hero-${look.id}-silver-${side}.webp?v=20261019-campaign`;});
+        ['open','rear'].forEach(side=>{const image=new Image();image.fetchPriority='low';image.src=`hero-${look.id}-silver-${side}.webp?v=20261019-three-windows`;});
       });
     },700);
   }
